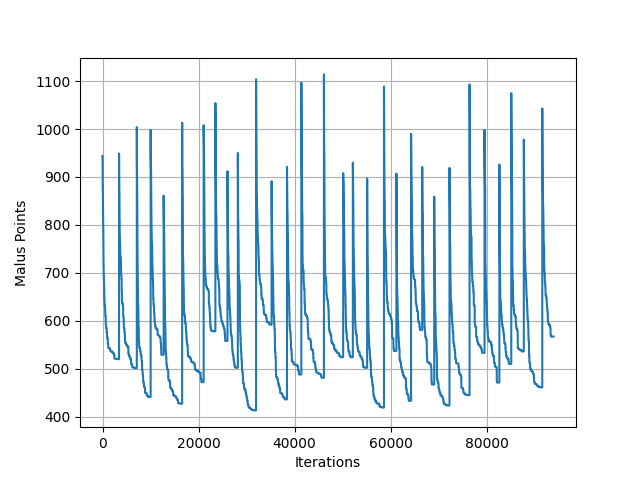
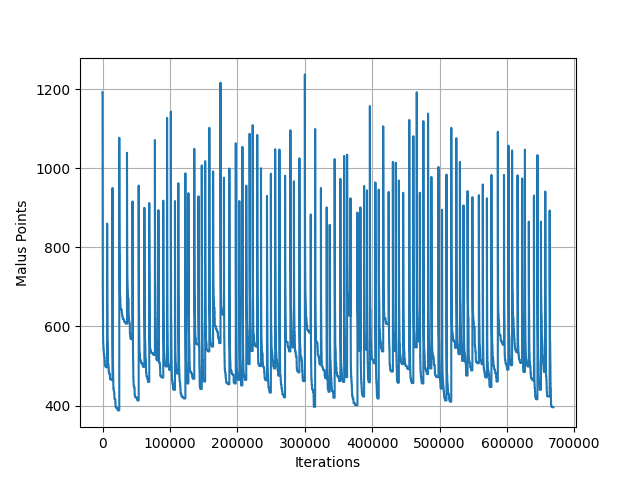
added restart hillclimber

diff --git a/main.py b/main.py
@@ -99,9 +99,10 @@ def main(print_time_table=False):
         # print_2d_list(courses_sorted[0])
 
     # print(f"Total maluspoint count: {malus_points}")
-    malus_points_progress = hill_climb_restart(
-        courses_sorted, available_rooms, students, rooms)
+    # malus_points_progress = hill_climb_restart(
+    #     courses_sorted, available_rooms, students, rooms)
 
+    return [malus_points]
     # print(f"new malus points: {malus_point_count(students, rooms)}")
 
     print(f"Start value = {malus_points}")
@@ -151,7 +152,6 @@ def print_2d_list(object_to_print) -> None:
 
 
 if __name__ == "__main__":
-    # main(True)
 
     n_hill_climbs = 100
     data = []
@@ -172,22 +172,20 @@ if __name__ == "__main__":
         duration = end - begin
         computation_times.append(duration)
 
-    plt.plot(data)
+    x = range(len(data))
 
-    plt.ylabel("Malus Points")
-    plt.xlabel("Iterations")
+    plt.bar(x, data)
+
+    plt.ylabel("N")
+    plt.xlabel("Malus Points")
 
     plt.grid(which="both")
 
-    plt.savefig("hillclimber.png")
+    # plt.plot(data)
 
-    # results = []
+    # plt.ylabel("Malus Points")
+    # plt.xlabel("Iterations")
 
-    # iterations = 1
+    # plt.grid(which="both")
 
-    # for i in range(iterations):
-    #     results.append(main(print_time_table=False))
-    #     if i % 50 == 0:
-    #         print(f"Step {i} / {iterations}")
-    # print(f"minimum malus points = {min(results)}")
-    # print(f"average malus points = {sum(results) / len(results)}")
+    # plt.savefig("hillclimber.png")

diff --git a/src/algorithm/restart_hillclimb.py b/src/algorithm/restart_hillclimb.py
@@ -7,8 +7,18 @@ from src.classes.room import Room
 from src.algorithm.hillclimber import hill_climb
 
 
-def hill_climb_restart(courses: list[Course], room_time_slots: list, students: list[Student], rooms: list[Room]):
+def hill_climb_restart(courses: list[Course], room_time_slots: list, students: list[Student], rooms: list[Room]) -> list[int]:
+    """_summary_
 
+    Args:
+        courses (list[Course]): _description_
+        room_time_slots (list): _description_
+        students (list[Student]): _description_
+        rooms (list[Room]): _description_
+
+    Returns:
+        _type_: _description_
+    """
     malus_points = []
     same_value_count = 0
     old_points = float('inf')

diff --git a/src/algorithm/sim_annealing.py b/src/algorithm/sim_annealing.py
@@ -10,7 +10,7 @@ from src.reschedule.reschedule import reschedule_time_slot
 import random
 
 
-def hill_climb(courses: list[Course], room_time_slots: list, students: list[Student], rooms: list[Room]) -> int:
+def simulated_annealing(courses: list[Course], room_time_slots: list, students: list[Student], rooms: list[Room]) -> int:
     """
 
 
